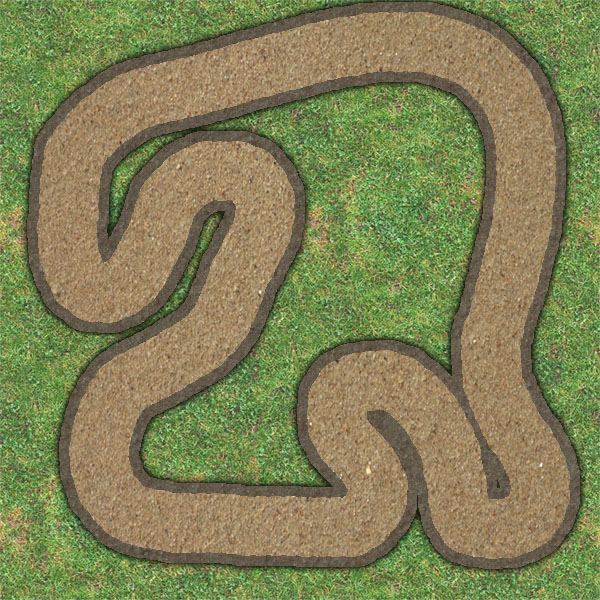
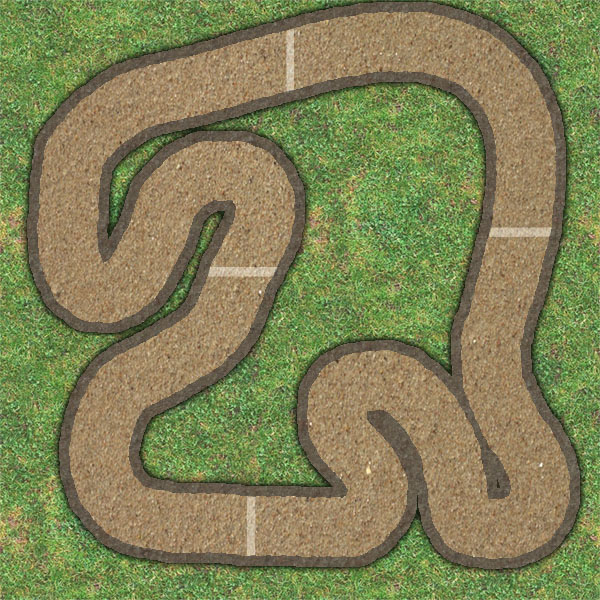
Actualizar imagen de fondo y comenzar con las mini-metas

diff --git a/ProyectoRMI/src/servidor/Servidor.java b/ProyectoRMI/src/servidor/Servidor.java
@@ -1,6 +1,7 @@
 package servidor;
 
 import java.awt.Color;
+import java.awt.Rectangle;
 import java.awt.geom.Area;
 import java.awt.geom.GeneralPath;
 import java.awt.image.BufferedImage;
@@ -25,6 +26,11 @@ public class Servidor extends UnicastRemoteObject implements InterfaceServidor, 
 	private BufferedImage pistaInterior;
 	private Area areaPista;
 	private Area areaPistaInterior;
+	
+	private Rectangle meta_uno;
+	private Rectangle meta_dos;
+	private Rectangle meta_tres;
+	private Rectangle meta_cuatro;
 
 	protected Servidor() throws RemoteException {
 		super();	
@@ -55,6 +61,11 @@ public class Servidor extends UnicastRemoteObject implements InterfaceServidor, 
 		areaPista = calcularArea(pista, new Color(134, 134, 134));
 		areaPistaInterior = calcularArea(pistaInterior, new Color(255, 0, 0));
 		areaPista.subtract(areaPistaInterior);
+		
+		meta_uno = new Rectangle(480, 220, 80, 25);
+		meta_dos = new Rectangle(280, 20, 25, 80);		
+		meta_tres = new Rectangle(240, 487, 25, 80);
+		meta_cuatro = new Rectangle(202, 260, 25, 80);
 		
 		(new Thread(this)).start();
 		System.out.println("Servidor abierto");

diff --git a/ProyectoRMI/src/servidor/Coche.java b/ProyectoRMI/src/servidor/Coche.java
@@ -26,7 +26,7 @@ public class Coche {
 	private String nombre;
 	
 	public Coche(Servidor servidor, Color color, int codigoCliente, String nombre) {
-		this(servidor, color, 525, 225, 10, 20, codigoCliente, 0, nombre);
+		this(servidor, color, 525, 250, 10, 20, codigoCliente, 0, nombre);
 	}
 	
 	public Coche(Servidor servidor, Color color, double x, double y, int ancho, int alto, int codigoCliente, double angulo, String nombre) {
